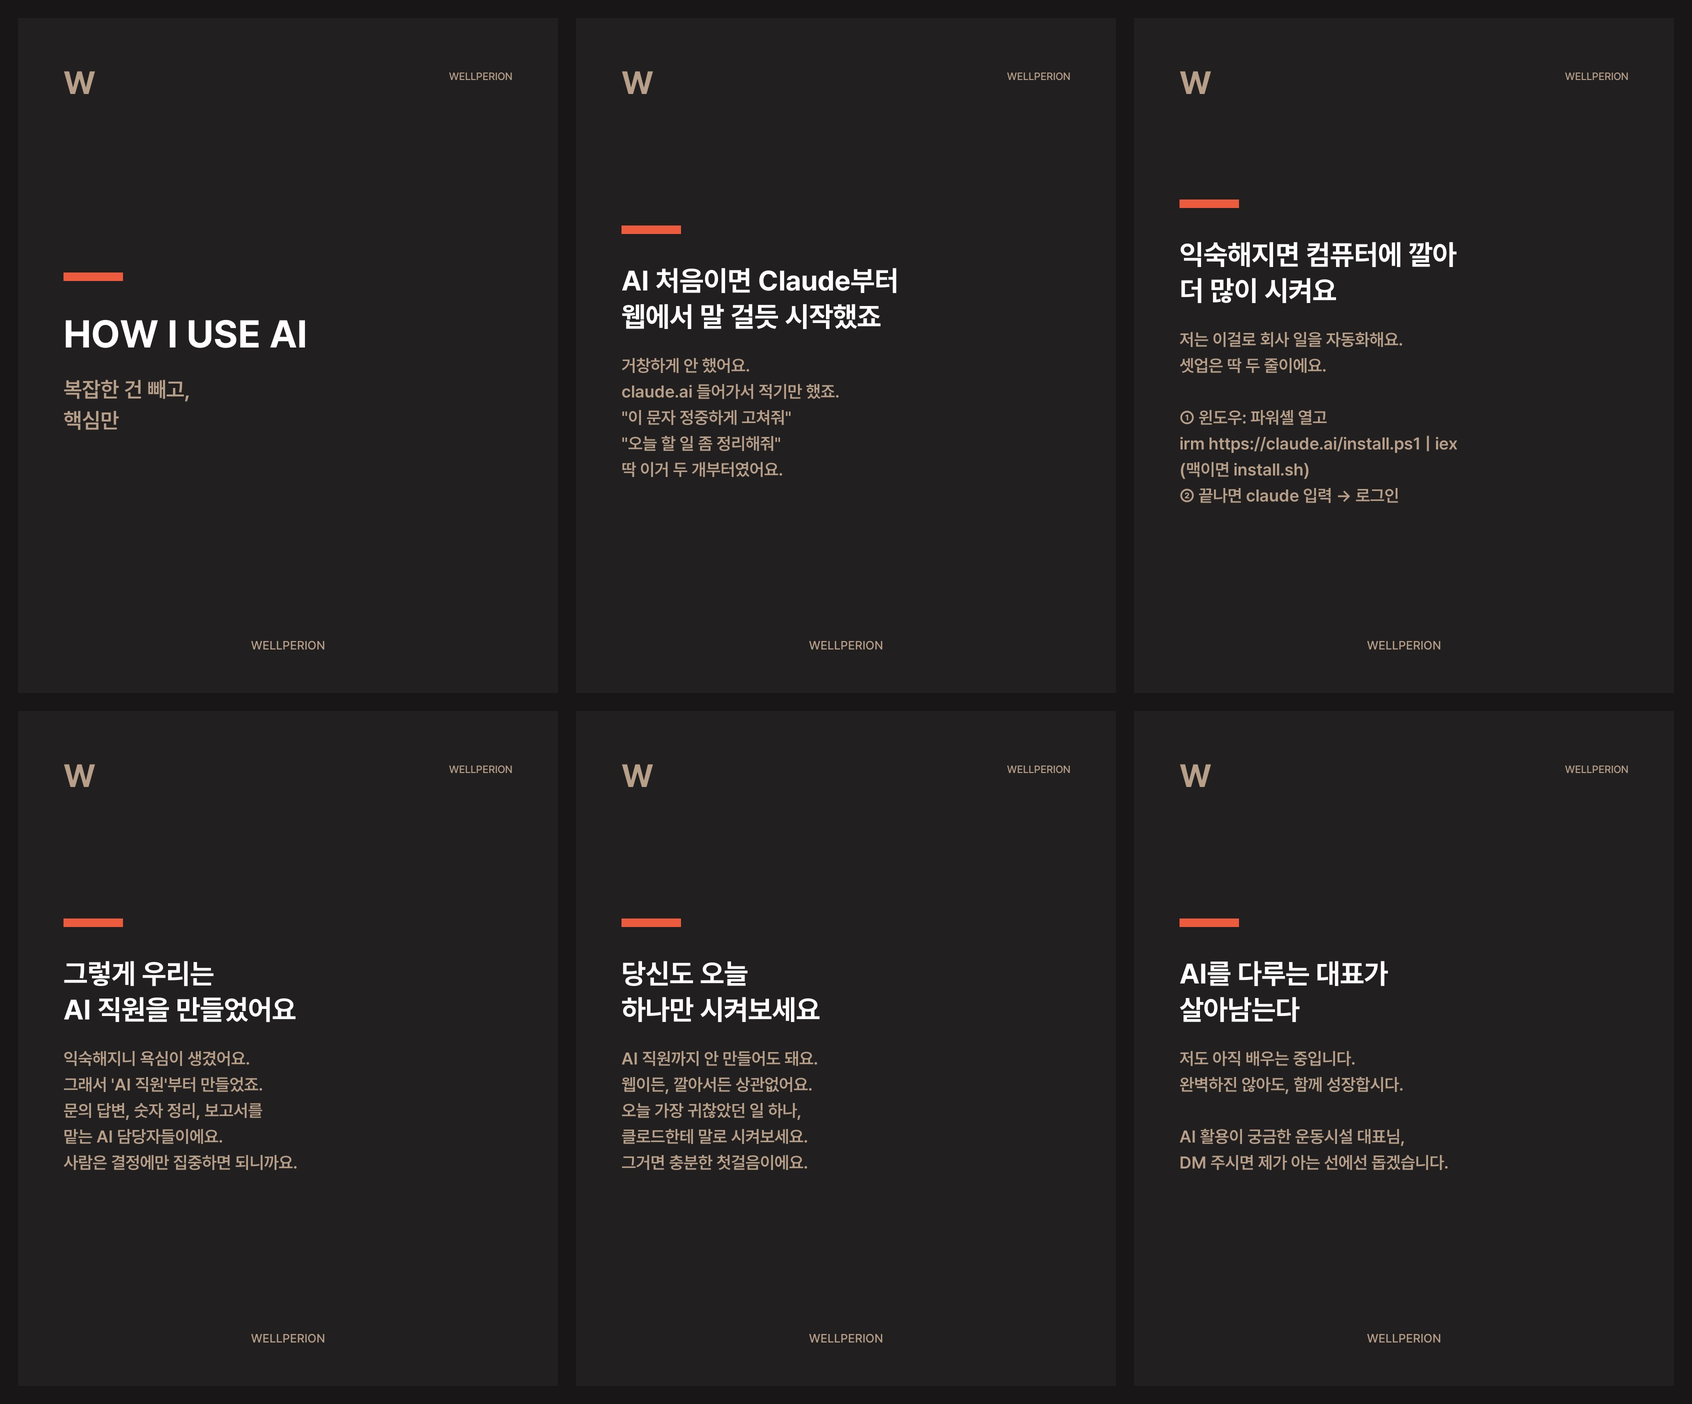
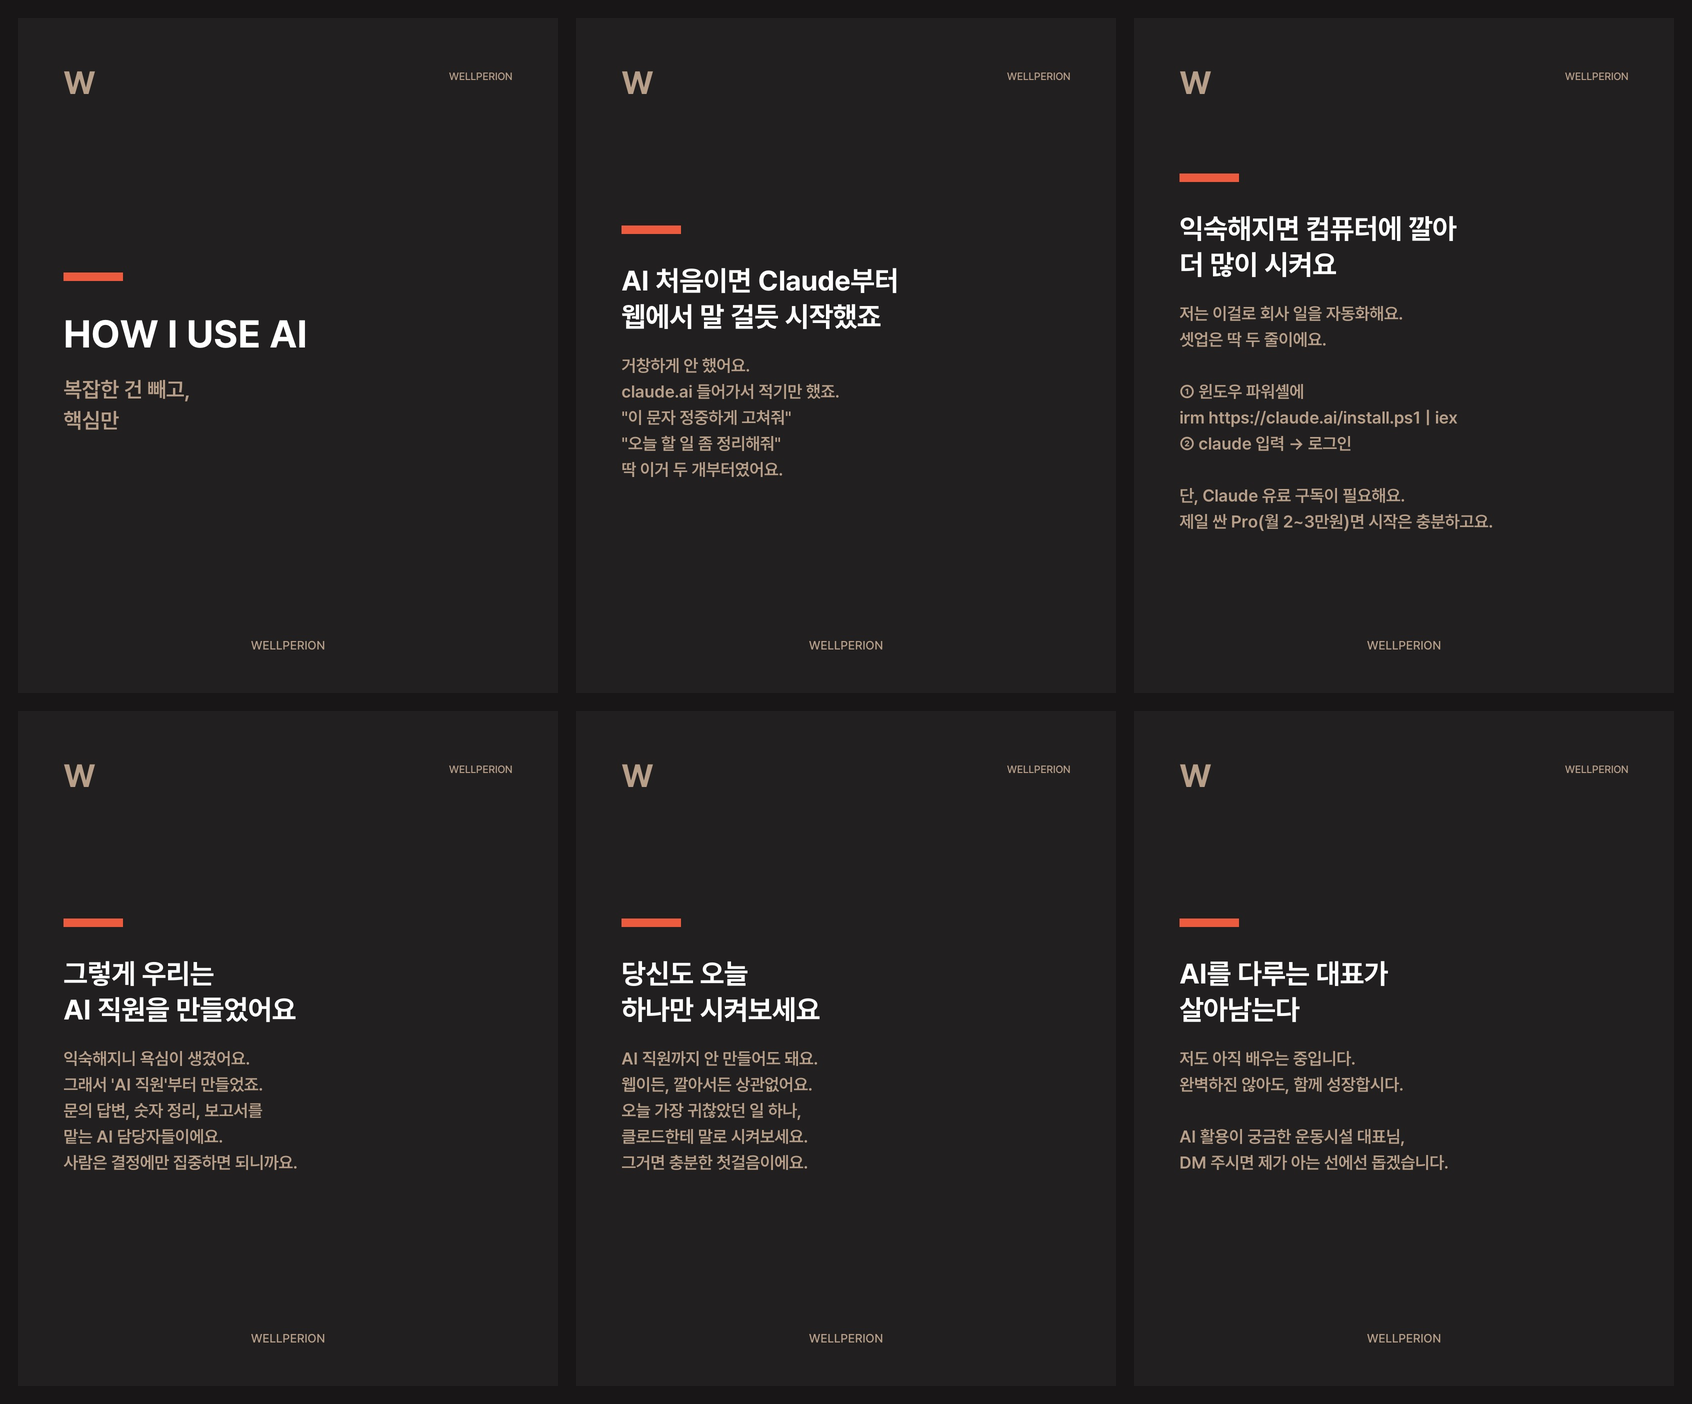
feat(cmo): AI #3편 CLI 페이지(post_3) 구독 안내 한 줄 추가 (검수 대기 유지)
GM 보완(2026-06-02): post_3에 Claude 유료 구독 안내 1줄 추가.
- 문구: "단, Claude 유료 구독이 필요해요. 제일 싼 Pro(월 2~3만원)면 시작은 충분하고요."
- 가격 정확성: Claude Pro = 월 $20 ≈ 한화 2~3만원(환율 ~1,300원). '52만원' 류 환율 오산 금지.
- Max·Team 상세 미표기(Pro만, 복잡한 건 빼고). 설치 명령 2스텝 유지, 한 장에 안 넘침(시각검증).
- 캡션·기획·큐레이션·spec 동기화(맥 install.sh는 캡션 보강)
- montage(6장) 재생성, M5 검수 큐 preview 갱신, status='검수 대기' 유지(미승인)
- 발행 안 함: GM [승인] 후에만(비가역 게이트)

Changed region(s): [[0.6761, 0.1225, 0.8605, 0.3981]]

diff --git a/instagram/260602_AI3_초등생도AI/build_slides.py b/instagram/260602_AI3_초등생도AI/build_slides.py
@@ -33,7 +33,7 @@ SLIDES = [
     ),
     dict(  # 3장 ★신규 — Claude CLI 간단 셋업 (설치법 정확, 대표 눈높이 1~2스텝)
         kor_title="익숙해지면 컴퓨터에 깔아\n더 많이 시켜요",
-        body="저는 이걸로 회사 일을 자동화해요.\n셋업은 딱 두 줄이에요.\n\n① 윈도우: 파워셸 열고\n   irm https://claude.ai/install.ps1 | iex\n   (맥이면 install.sh)\n② 끝나면 claude 입력 → 로그인",
+        body="저는 이걸로 회사 일을 자동화해요.\n셋업은 딱 두 줄이에요.\n\n① 윈도우 파워셸에\n   irm https://claude.ai/install.ps1 | iex\n② claude 입력 → 로그인\n\n단, Claude 유료 구독이 필요해요.\n제일 싼 Pro(월 2~3만원)면 시작은 충분하고요.",
     ),
     dict(  # 4장 ② 웰페리온 실제 사례 — AI 직원(C-Level) 만든 솔직 사례
         kor_title="그렇게 우리는\nAI 직원을 만들었어요",

diff --git a/instagram/260602_AI3_초등생도AI/기획_초안.md b/instagram/260602_AI3_초등생도AI/기획_초안.md
@@ -36,8 +36,9 @@ AI 입문은 어렵지 않다 — 나(GM)는 Claude에 말 걸듯 시작해, 컴
 
 ### 3장 (★신규 — Claude CLI 간단 셋업 · 설치법 정확)
 대제목 1 익숙해지면 컴퓨터에 깔아\n더 많이 시켜요
-본문 1 저는 이걸로 회사 일을 자동화해요.\n셋업은 딱 두 줄이에요.\n\n① 윈도우: 파워셸 열고\n   irm https://claude.ai/install.ps1 | iex\n   (맥이면 install.sh)\n② 끝나면 claude 입력 → 로그인
-설치출처 1 code.claude.com/docs/en/setup (2026-06 확인) — 부정확 명령어 금지. 계정: Pro/Max 등 유료 필요(무료 불가, 슬라이드 미표기 운영메모).
+본문 1 저는 이걸로 회사 일을 자동화해요.\n셋업은 딱 두 줄이에요.\n\n① 윈도우 파워셸에\n   irm https://claude.ai/install.ps1 | iex\n② claude 입력 → 로그인\n\n단, Claude 유료 구독이 필요해요.\n제일 싼 Pro(월 2~3만원)면 시작은 충분하고요.
+설치출처 1 code.claude.com/docs/en/setup (2026-06 확인) — 부정확 명령어 금지. 맥/리눅스는 install.sh(슬라이드 공간상 캡션에만, 윈도우 우선 표기).
+가격정확성 1 Claude Pro = 월 $20 ≈ 한화 2~3만원(환율 ~1,300원). ❌ '52만원' 류 환율 오산 절대 금지. 무료 플랜 불가만 정확히. Max·Team 상세는 미표기(복잡한 건 빼고, Pro만).
 
 ### 4장 (② 웰페리온 실제 사례 — AI 직원, 연결부 '그렇게')
 대제목 1 그렇게 우리는\nAI 직원을 만들었어요
@@ -59,7 +60,8 @@ AI 처음이라면 저는 Claude부터 권해요.
 "이 문자 정중하게 고쳐줘", "오늘 할 일 정리해줘" — 딱 이거 두 개부터요.
 
 익숙해지면 컴퓨터에 깔아서 더 많이 시킬 수 있어요.
-윈도우는 파워셸에 'irm https://claude.ai/install.ps1 | iex' 한 줄, 끝나면 claude 입력하고 로그인.
+윈도우는 파워셸에 'irm https://claude.ai/install.ps1 | iex' 한 줄, 끝나면 claude 입력하고 로그인(맥은 install.sh).
+단, Claude 유료 구독이 필요해요. 제일 싼 Pro(월 2~3만원)면 시작은 충분하고요.
 저는 이걸로 회사 일을 자동화하고, 'AI 직원'까지 만들었어요.
 문의 답변·숫자 정리·보고서를 맡는 AI 담당자들이라, 사람은 결정에만 집중하면 됩니다.
 

diff --git a/instagram/260602_AI3_초등생도AI/큐레이션_추천.md b/instagram/260602_AI3_초등생도AI/큐레이션_추천.md
@@ -15,7 +15,8 @@ AI 처음이라면 저는 Claude부터 권해요.
 "이 문자 정중하게 고쳐줘", "오늘 할 일 정리해줘" — 딱 이거 두 개부터요.
 
 익숙해지면 컴퓨터에 깔아서 더 많이 시킬 수 있어요.
-윈도우는 파워셸에 'irm https://claude.ai/install.ps1 | iex' 한 줄, 끝나면 claude 입력하고 로그인.
+윈도우는 파워셸에 'irm https://claude.ai/install.ps1 | iex' 한 줄, 끝나면 claude 입력하고 로그인(맥은 install.sh).
+단, Claude 유료 구독이 필요해요. 제일 싼 Pro(월 2~3만원)면 시작은 충분하고요.
 저는 이걸로 회사 일을 자동화하고, 'AI 직원'까지 만들었어요.
 문의 답변·숫자 정리·보고서를 맡는 AI 담당자들이라, 사람은 결정에만 집중하면 됩니다.
 
